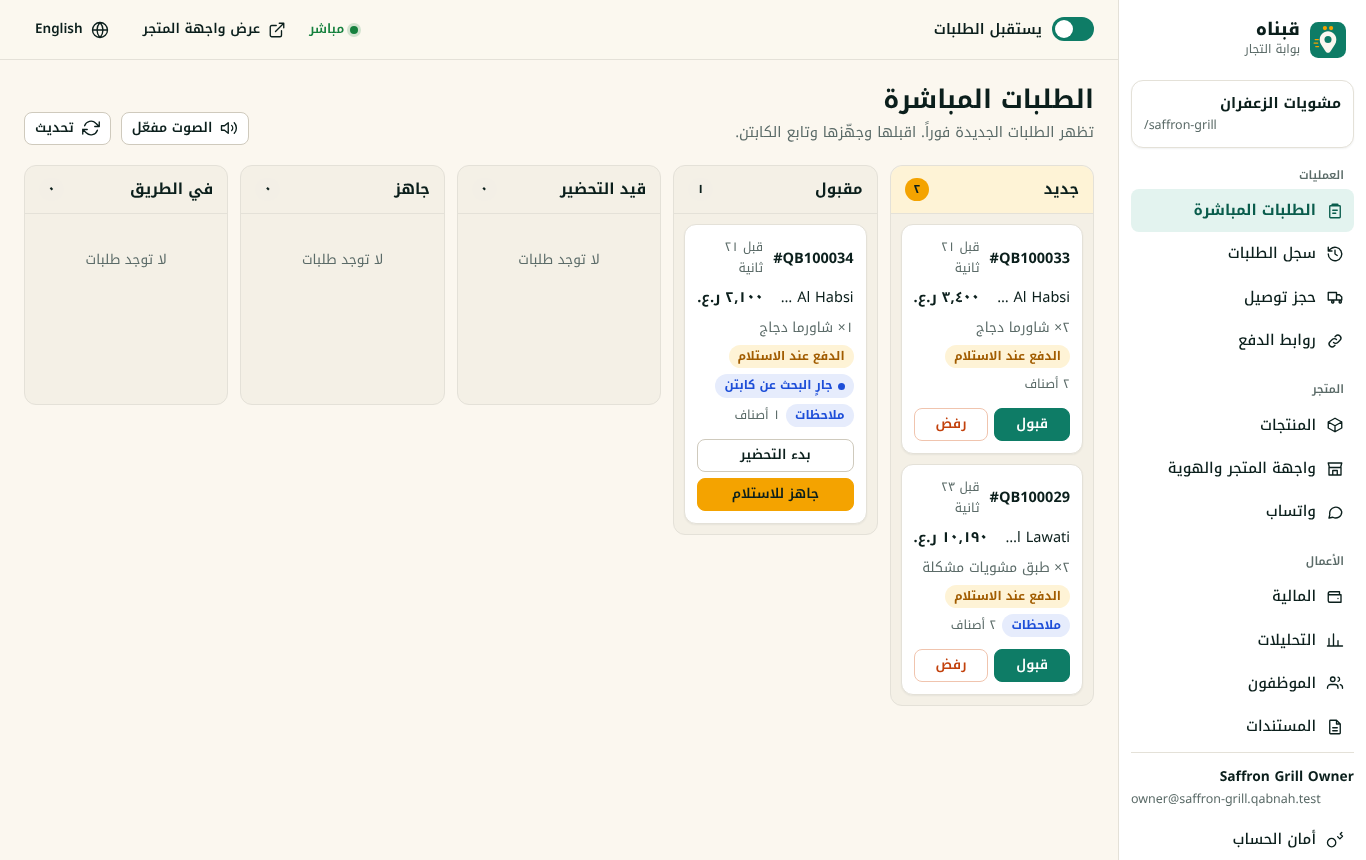
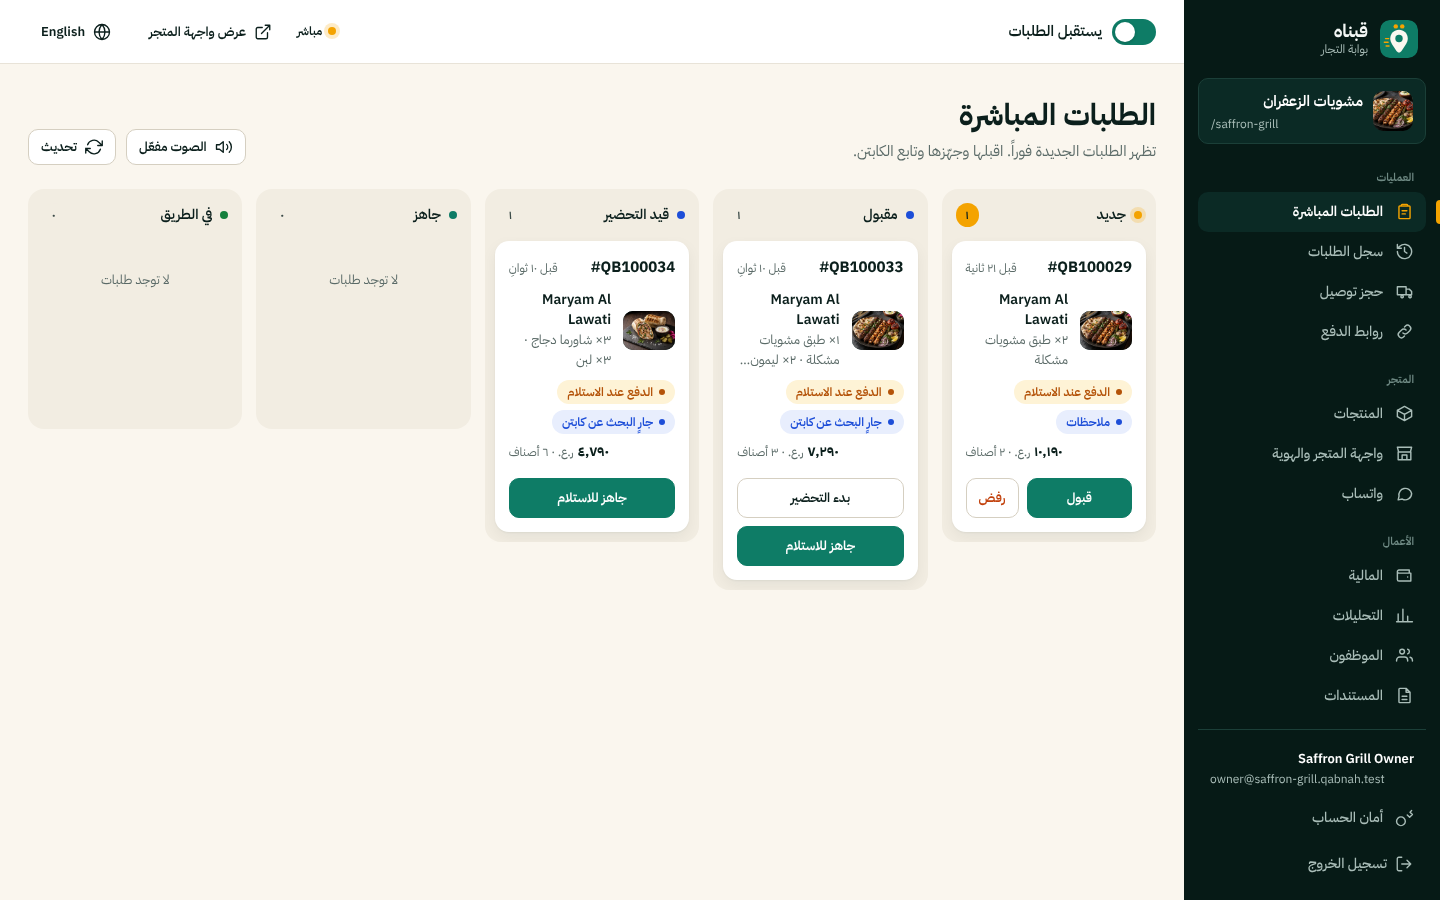
Web redesign complete (Design System v2): storefront, stores directory, pay page, merchant portal, admin; new screenshots
- storefront: full-bleed cover, logo chip, sticky category tabs, photo product rows, product sheet, cart sheet,
  four-step checkout, order timeline; new public /stores directory; ?lang=ar|en honoured on first load
- merchant portal and admin: night sidebar shell, photo catalog, orders board with item photos, live branding preview,
  charts, dark live-ops map
- docs/screenshots regenerated from the running apps (apps/e2e/scripts/doc-screenshots.mjs)
- site: phone in the 3D scene and the merchant section now show the redesigned screens; stills re-rendered
- verified in the sandbox: typecheck, unit tests (shared 42, merchant 8), builds, Playwright e2e 5/5

Claude-Session: https://claude.ai/code/session_01JSR2v7KHaKXEtGqbivRoAi

diff --git a/qabnah/apps/site/src/main.ts b/qabnah/apps/site/src/main.ts
@@ -159,7 +159,7 @@ const stage = (() => {
     update();
     try {
       const [{ createScene }] = await Promise.all([import('./scene'), document.fonts.load('700 58px "IBM Plex Sans Arabic"')]);
-      scene = createScene(canvas, { screenUrl: '/img/phone-storefront.png', pixelRatio: Math.min(devicePixelRatio, 1.75), onReady: () => pin.classList.add('gl-ready') });
+      scene = createScene(canvas, { screenUrl: '/img/phone-storefront.jpg', pixelRatio: Math.min(devicePixelRatio, 1.75), onReady: () => pin.classList.add('gl-ready') });
       applyShift(); scene.setProgress(p); scene.render(); scene.start();
       new IntersectionObserver(([e]) => (e.isIntersecting ? scene!.start() : scene!.stop())).observe(root);
       document.addEventListener('visibilitychange', () => (document.hidden ? scene!.stop() : scene!.start()));

diff --git a/qabnah/apps/site/src/stills.ts b/qabnah/apps/site/src/stills.ts
@@ -5,6 +5,6 @@ import { createScene, type SceneHandle } from './scene';
 
 declare global { interface Window { __scene: SceneHandle; __ready?: boolean } }
 await document.fonts.load('700 58px "IBM Plex Sans Arabic"');
-const scene = createScene(document.getElementById('stage') as HTMLCanvasElement, { screenUrl: '/img/phone-storefront.png', pixelRatio: 1, onReady: () => { window.__ready = true; } });
+const scene = createScene(document.getElementById('stage') as HTMLCanvasElement, { screenUrl: '/img/phone-storefront.jpg', pixelRatio: 1, onReady: () => { window.__ready = true; } });
 window.__scene = scene;
 scene.render();

diff --git a/qabnah/apps/site/index.html b/qabnah/apps/site/index.html
@@ -204,7 +204,7 @@
             <div class="browser-bar"><i></i><i></i><i></i></div>
             <img src="/img/portal-orders.png" alt="" loading="lazy" width="1440" height="900">
           </div>
-          <div class="phone-shot"><img src="/img/phone-storefront.png" alt="" loading="lazy" width="390" height="844"></div>
+          <div class="phone-shot"><img src="/img/phone-storefront.jpg" alt="" loading="lazy" width="390" height="844"></div>
         </div>
       </div>
     </section>
